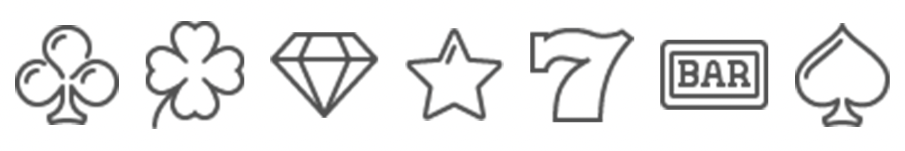
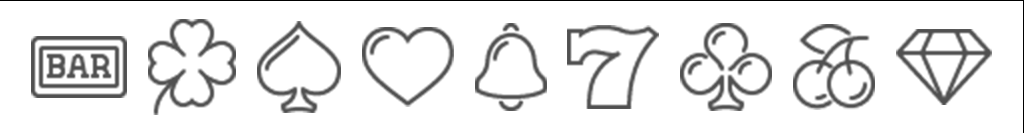
updated README.md to reflect that there are now 9 symbols used in the reels of slot machine.

Changed region(s): [[0.0, 0.0, 1.0, 1.0]]

diff --git a/README.md b/README.md
@@ -16,15 +16,15 @@ A slot machine powered by HTML, CSS and Javascript.
 [Link to view wireframe on Whimsical: https://whimsical.com/olu-s-slot-machine-YQNJ3geosQsdeWZVZGAAdx](https://whimsical.com/olu-s-slot-machine-YQNJ3geosQsdeWZVZGAAdx)
  
 ### Game Flow 
-<img src="https://hedonic.life/wp-content/uploads/2022/07/slot-machine-game-flow-1.png" />
+<img src="https://hedonic.life/wp-content/uploads/2022/07/slot-machine-symbols-3.png" />
 
 ### Symbol List
-There are **7 symbols** that may appear in the reels when the slot machine is played:
+There are **9 symbols** that may appear in the reels when the slot machine is played:
 <img src="https://hedonic.life/wp-content/uploads/2022/07/slot-machine-symbols-2.png" />
 
 ### Slot Machine Description
 
-The slot machine is rendered on the page using a design powered by CSS Grid and Flexbox. The slot machine features 4 reels loaded with 7 symbols. 
+The slot machine is rendered on the page using a design powered by CSS Grid and Flexbox. The slot machine features 4 reels loaded with 9 symbols. 
 
 When the page is first loaded, the buttons and reels are not initially active. The live console/info box prompts the user to enter their name, via the textbox at the bottom of the machine.
 
